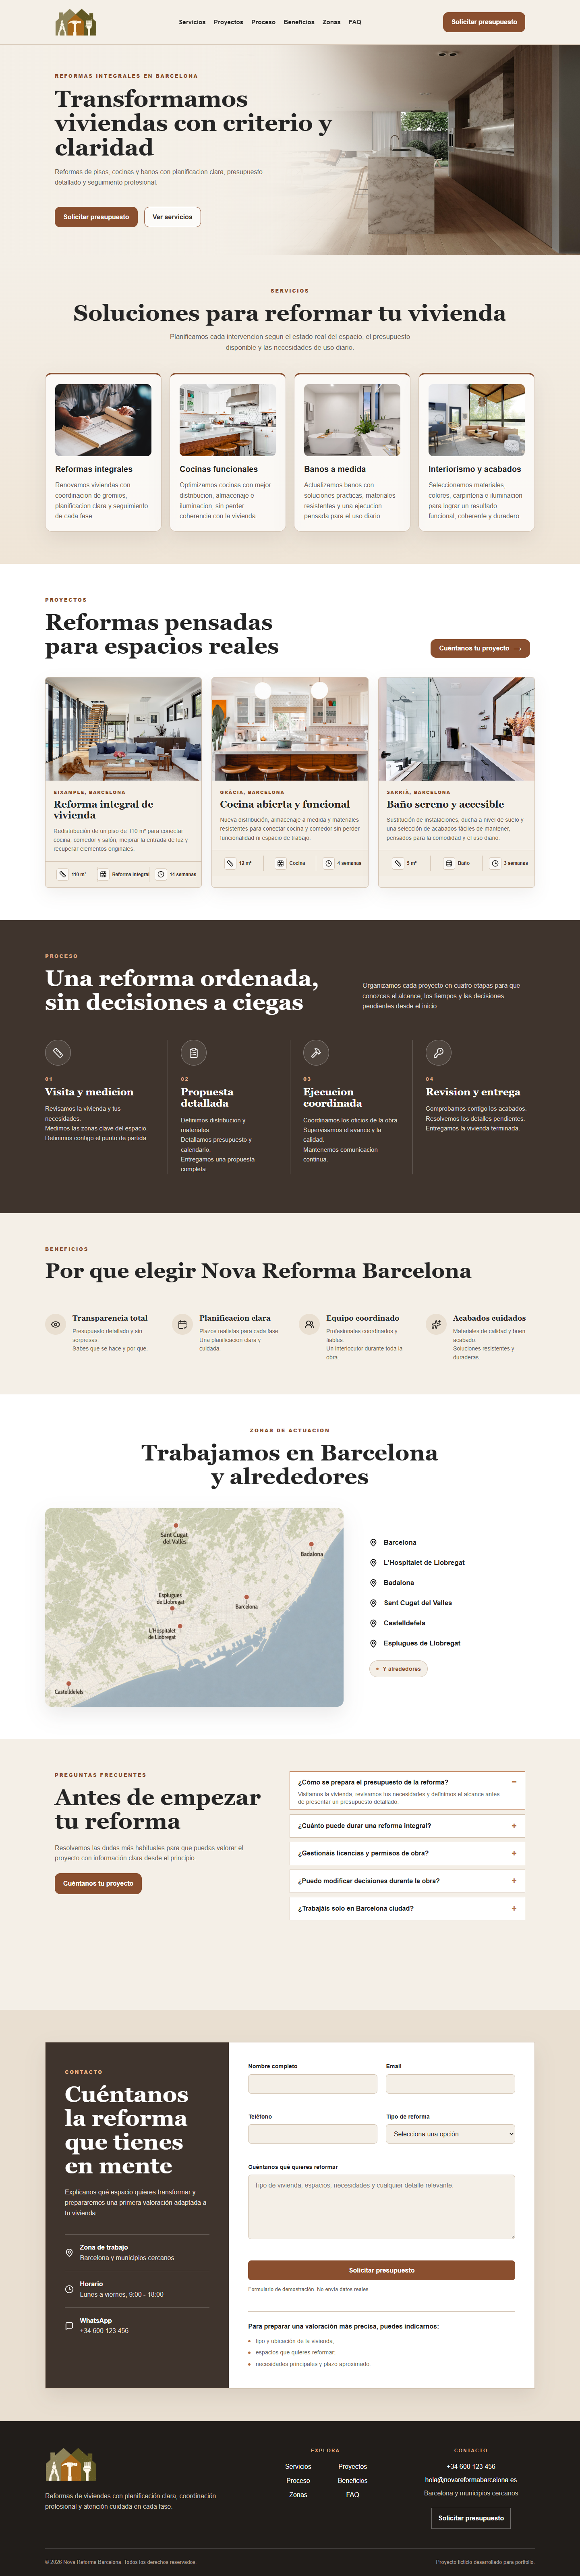
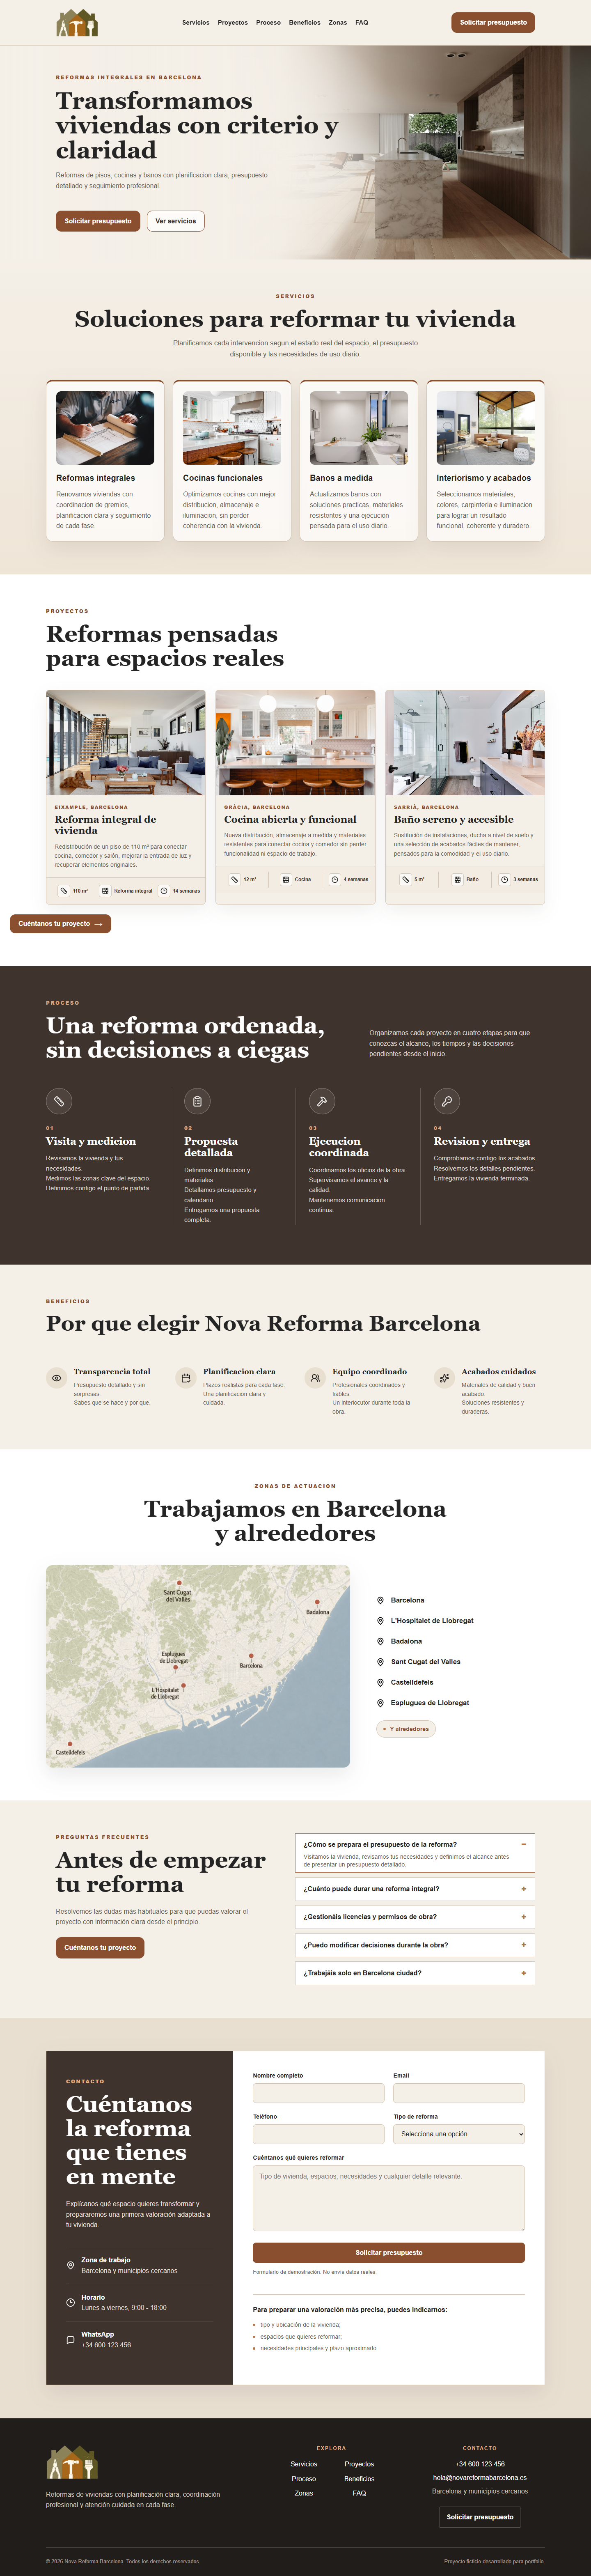
fix: polish mobile layout and spacing

diff --git a/src/css/styles.css b/src/css/styles.css
@@ -449,12 +449,14 @@ main a[href^="#servicios"]:hover {
     gap: 2rem;
 }
 
-.projects-heading > a {
-    display: inline-flex;
+.projects-cta {
+    display: flex;
     align-items: center;
     justify-content: center;
     gap: 0.65rem;
-    width: auto;
+    width: fit-content;
+    margin-top: 2rem;
+    margin-left: auto;
     padding: 0.9rem 1.25rem;
     border: 0.0625rem solid var(--color-primary);
     border-radius: var(--radius-small);
@@ -465,7 +467,7 @@ main a[href^="#servicios"]:hover {
     white-space: nowrap;
 }
 
-.projects-heading > a span {
+.projects-cta span {
     font-size: 1.25rem;
 }
 
@@ -823,7 +825,6 @@ main a[href^="#servicios"]:hover {
     align-items: start;
     gap: 6.5rem;
     max-width: 76rem;
-    min-height: 42rem;
     margin-right: auto;
     margin-left: auto;
     background: var(--color-background);
@@ -1067,6 +1068,10 @@ main a[href^="#servicios"]:hover {
     line-height: 1.3;
 }
 
+.form-error:empty {
+    display: none;
+}
+
 .form-submit {
     width: 100%;
     min-height: 3.1rem;
@@ -1293,7 +1298,7 @@ main a[href^="#servicios"]:hover {
     }
 
     .hero {
-        min-height: 37rem;
+        min-height: 28rem;
         align-items: flex-end;
     }
 
@@ -1313,8 +1318,7 @@ main a[href^="#servicios"]:hover {
     }
 
     .hero-content {
-        padding-top: 7rem;
-        padding-bottom: 4rem;
+        padding: 2.25rem 1.5rem 2.75rem;
     }
 
     .hero-copy,
@@ -1335,7 +1339,6 @@ main a[href^="#servicios"]:hover {
         display: grid;
         grid-template-columns: 1fr;
         align-items: start;
-        gap: 1rem;
     }
 
     .projects-heading > p {
@@ -1454,10 +1457,25 @@ main a[href^="#servicios"]:hover {
 
     .hero-actions {
         display: grid;
+        grid-template-columns: minmax(0, 1.1fr) minmax(0, 0.9fr);
+        gap: 0.65rem;
+        margin-top: 1.25rem;
+    }
+
+    .hero-actions a {
+        min-height: 2.65rem;
+        padding: 0.65rem 0.5rem;
+        font-size: 0.78rem;
+        white-space: nowrap;
     }
 
     .form-grid {
         grid-template-columns: 1fr;
+        gap: 1rem;
+    }
+
+    .form-field {
+        gap: 0.35rem;
     }
 
     .nav-list {
@@ -1479,7 +1497,24 @@ main a[href^="#servicios"]:hover {
     main a[href^="#contacto"],
     main a[href^="#servicios"] {
         width: 100%;
+        min-height: 2.8rem;
+        margin-top: 0;
         margin-right: 0;
+    }
+
+    .section-label {
+        margin-bottom: 0.65rem;
+        font-size: 0.64rem;
+        letter-spacing: 0.11rem;
+    }
+
+    .hero h1 {
+        font-size: 2.55rem;
+        line-height: 1.04;
+    }
+
+    .hero-description {
+        margin-top: 1rem;
     }
 
     .section-heading {
@@ -1493,6 +1528,17 @@ main a[href^="#servicios"]:hover {
 
     .service-card {
         min-height: auto;
+        padding: 1rem;
+    }
+
+    .service-card h3 {
+        margin-top: 0.9rem;
+        font-size: 1.15rem;
+    }
+
+    .service-card p {
+        min-height: 0;
+        margin-top: 0.65rem;
     }
 
     .project-card > img {
@@ -1500,7 +1546,7 @@ main a[href^="#servicios"]:hover {
     }
 
     .project-details {
-        grid-template-columns: repeat(3, minmax(0, 1fr));
+        grid-template-columns: repeat(2, minmax(0, 1fr));
     }
 
     .project-details li {
@@ -1513,7 +1559,14 @@ main a[href^="#servicios"]:hover {
     }
 
     .project-details li:last-child {
+        grid-column: 1 / -1;
         border-right: 0;
+        border-top: 0.0625rem solid var(--color-border);
+    }
+
+    .projects-cta {
+        width: 100%;
+        margin-top: 1.5rem;
     }
 
     .process-heading {

diff --git a/index.html b/index.html
@@ -159,7 +159,6 @@
                     <p class="section-label">Proyectos</p>
                     <h2>Reformas pensadas<br />para espacios reales</h2>
                 </div>
-                <a href="#contacto">Cuéntanos tu proyecto <span aria-hidden="true">→</span></a>
             </div>
 
             <div class="projects-grid">
@@ -250,6 +249,10 @@
                     </div>
                 </article>
             </div>
+
+            <a class="projects-cta" href="#contacto">
+                Cuéntanos tu proyecto <span aria-hidden="true">→</span>
+            </a>
         </section>
 
         <section class="process-section" id="proceso">